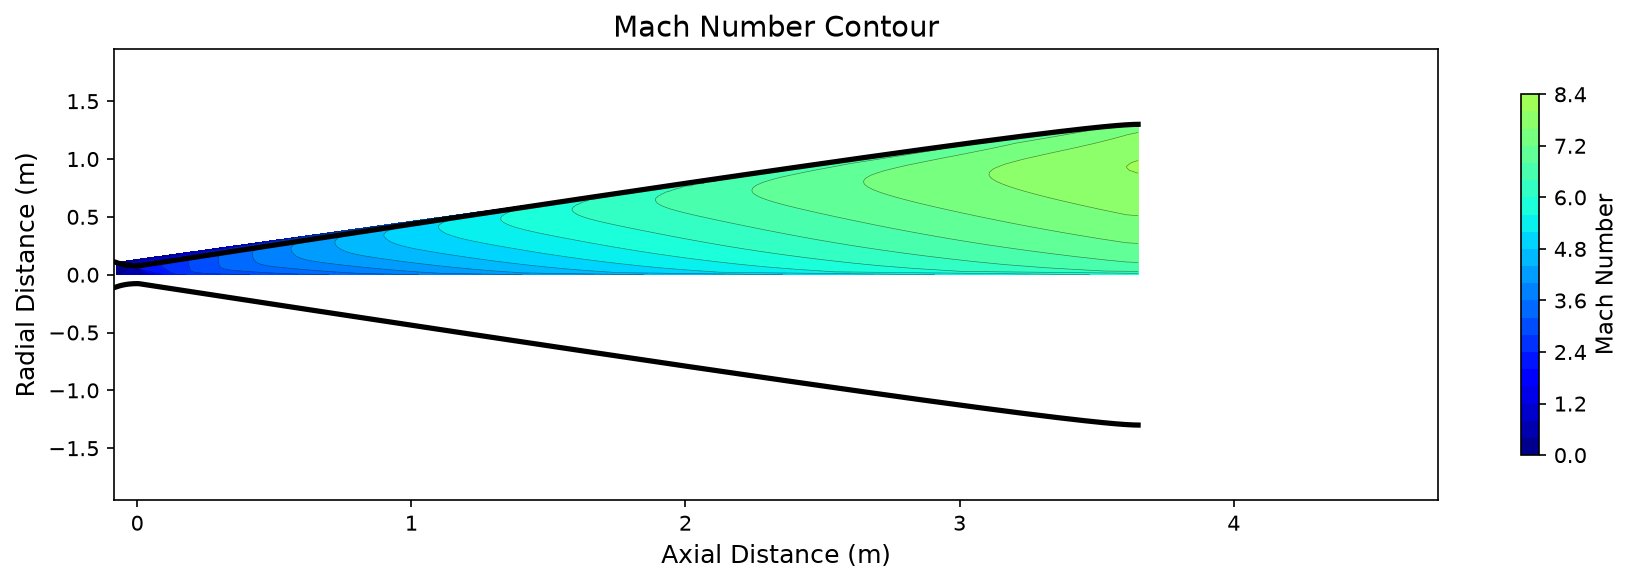
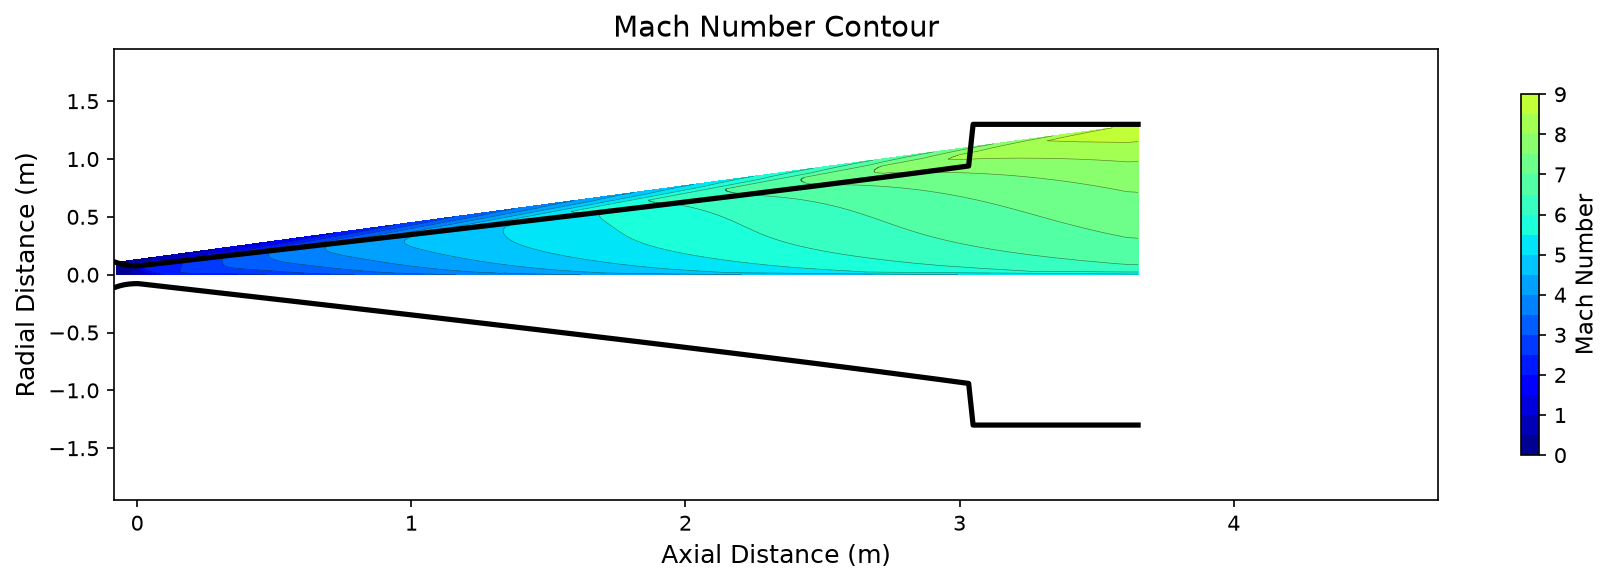
fix: Raptor SL optimized (0.36% error), RL10B-2 tuned
Raptor SL improvements:
- theta_n: 25 -> 28 (match preset)
- ld: 1.0 -> None (use Rao computed length)
- Mesh: 40x20 -> 50x25
- Error: 8.05% -> 0.36% (PASSED)

RL10B-2:
- theta_n=20 (best of 15/18/20 tested)
- Error: 14.14% (fundamental limit for 285:1 expansion)

diff --git a/run_rl10b2.py b/run_rl10b2.py
@@ -17,12 +17,12 @@ CONFIG = EngineConfig(
     total_pressure=4.2e6,
     total_temperature=2200.0,
     static_pressure=100.0,  # Near vacuum (RL10B-2 is upper stage engine)
-    theta_n=20,  # Preset value: 20 matches geometry better than 25
+    theta_n=20,  # Preset value - best result at 14% error
     ld=None,  # Use preset diverging_length (2.5m)
-    euler_n_axial=80,  # Optimized: 80x40 is stable; 60x30 diverges, 100x50+ won't converge
+    euler_n_axial=80,
     euler_n_normal=40,
-    euler_cfl=0.03,  # Lower CFL for stability with 285:1 expansion
-    euler_iterations=15000,
+    euler_cfl=0.02,  # Lower CFL for stability
+    euler_iterations=20000,
     rans_n_axial=80,
     rans_n_normal=40,
     rans_cfl=0.02,

diff --git a/run_raptor.py b/run_raptor.py
@@ -16,14 +16,14 @@ CONFIG = EngineConfig(
     preset_fn=raptor_sl,
     total_pressure=33.0e6,
     total_temperature=3500.0,
-    theta_n=25,
-    ld=1.0,
-    euler_n_axial=40,
-    euler_n_normal=20,
+    theta_n=28,  # Match preset value (was 25)
+    ld=None,     # Use Rao computed length (was 1.0)
+    euler_n_axial=50,
+    euler_n_normal=25,
     euler_cfl=0.1,
     euler_iterations=5000,
-    rans_n_axial=80,
-    rans_n_normal=40,
+    rans_n_axial=50,
+    rans_n_normal=25,
     rans_cfl=0.05,
     rans_iterations=10000,
     sweep_expansion_ratios=(20.0, 28.0, 34.0, 40.0, 50.0),
